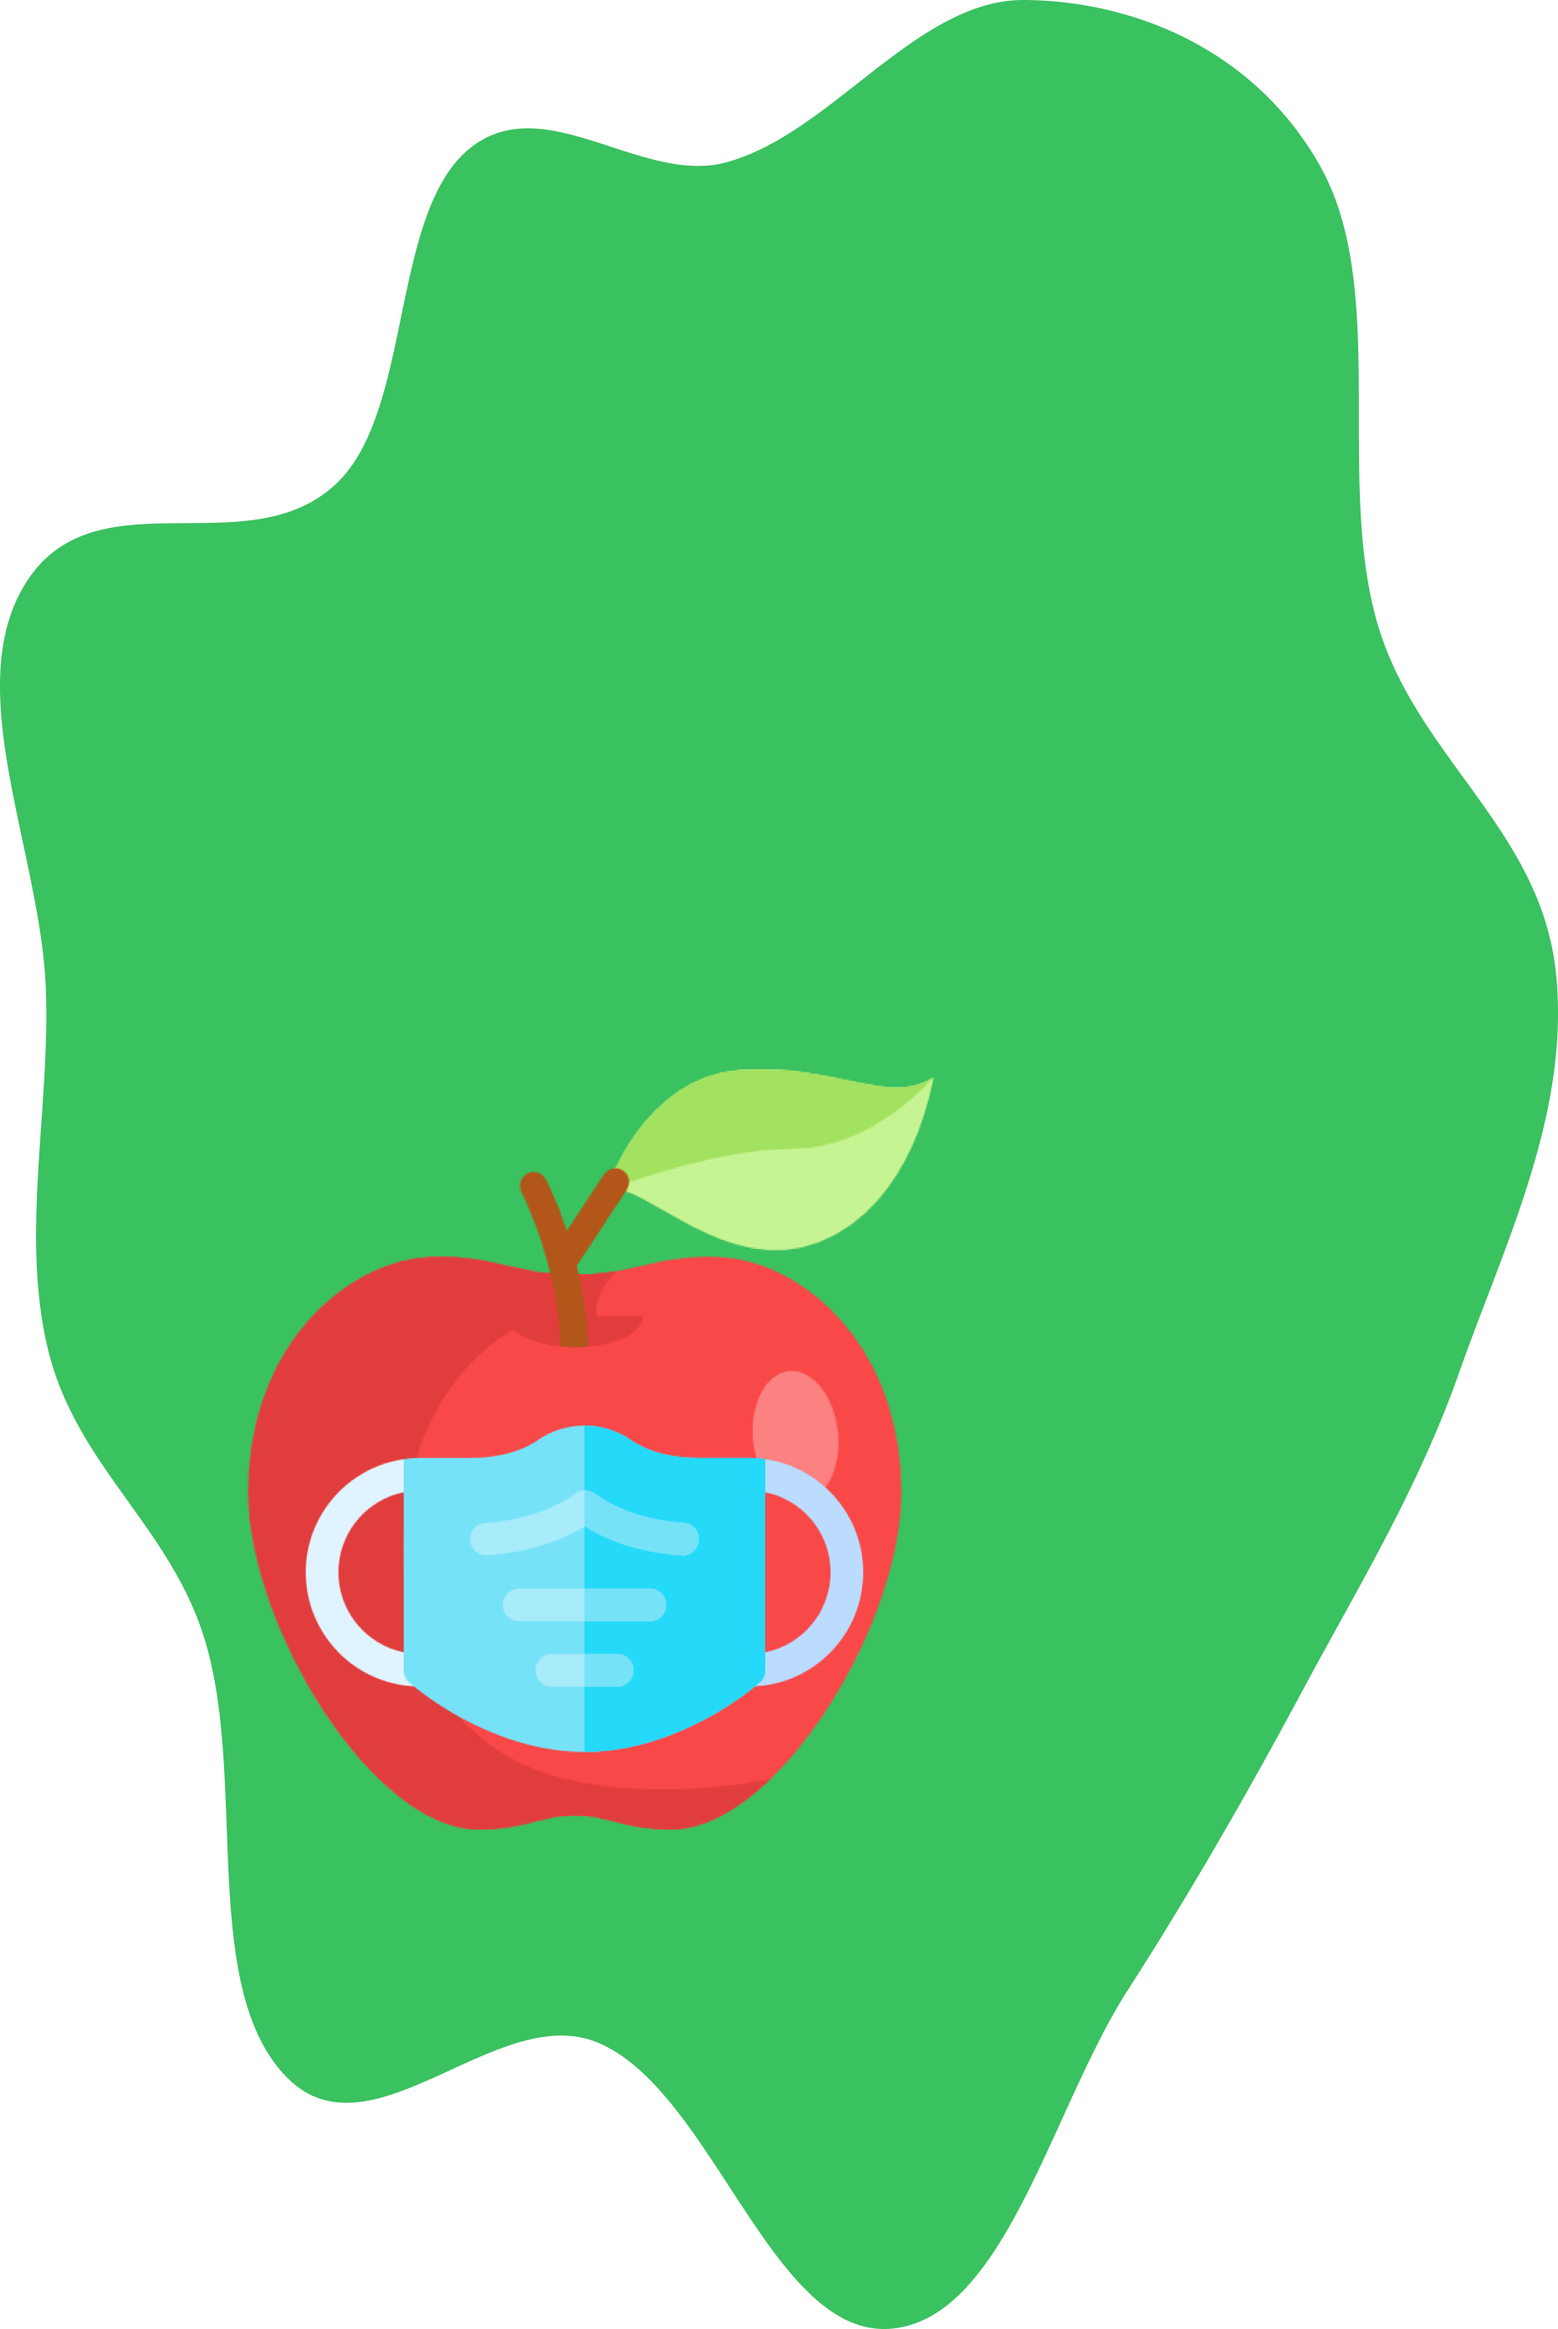
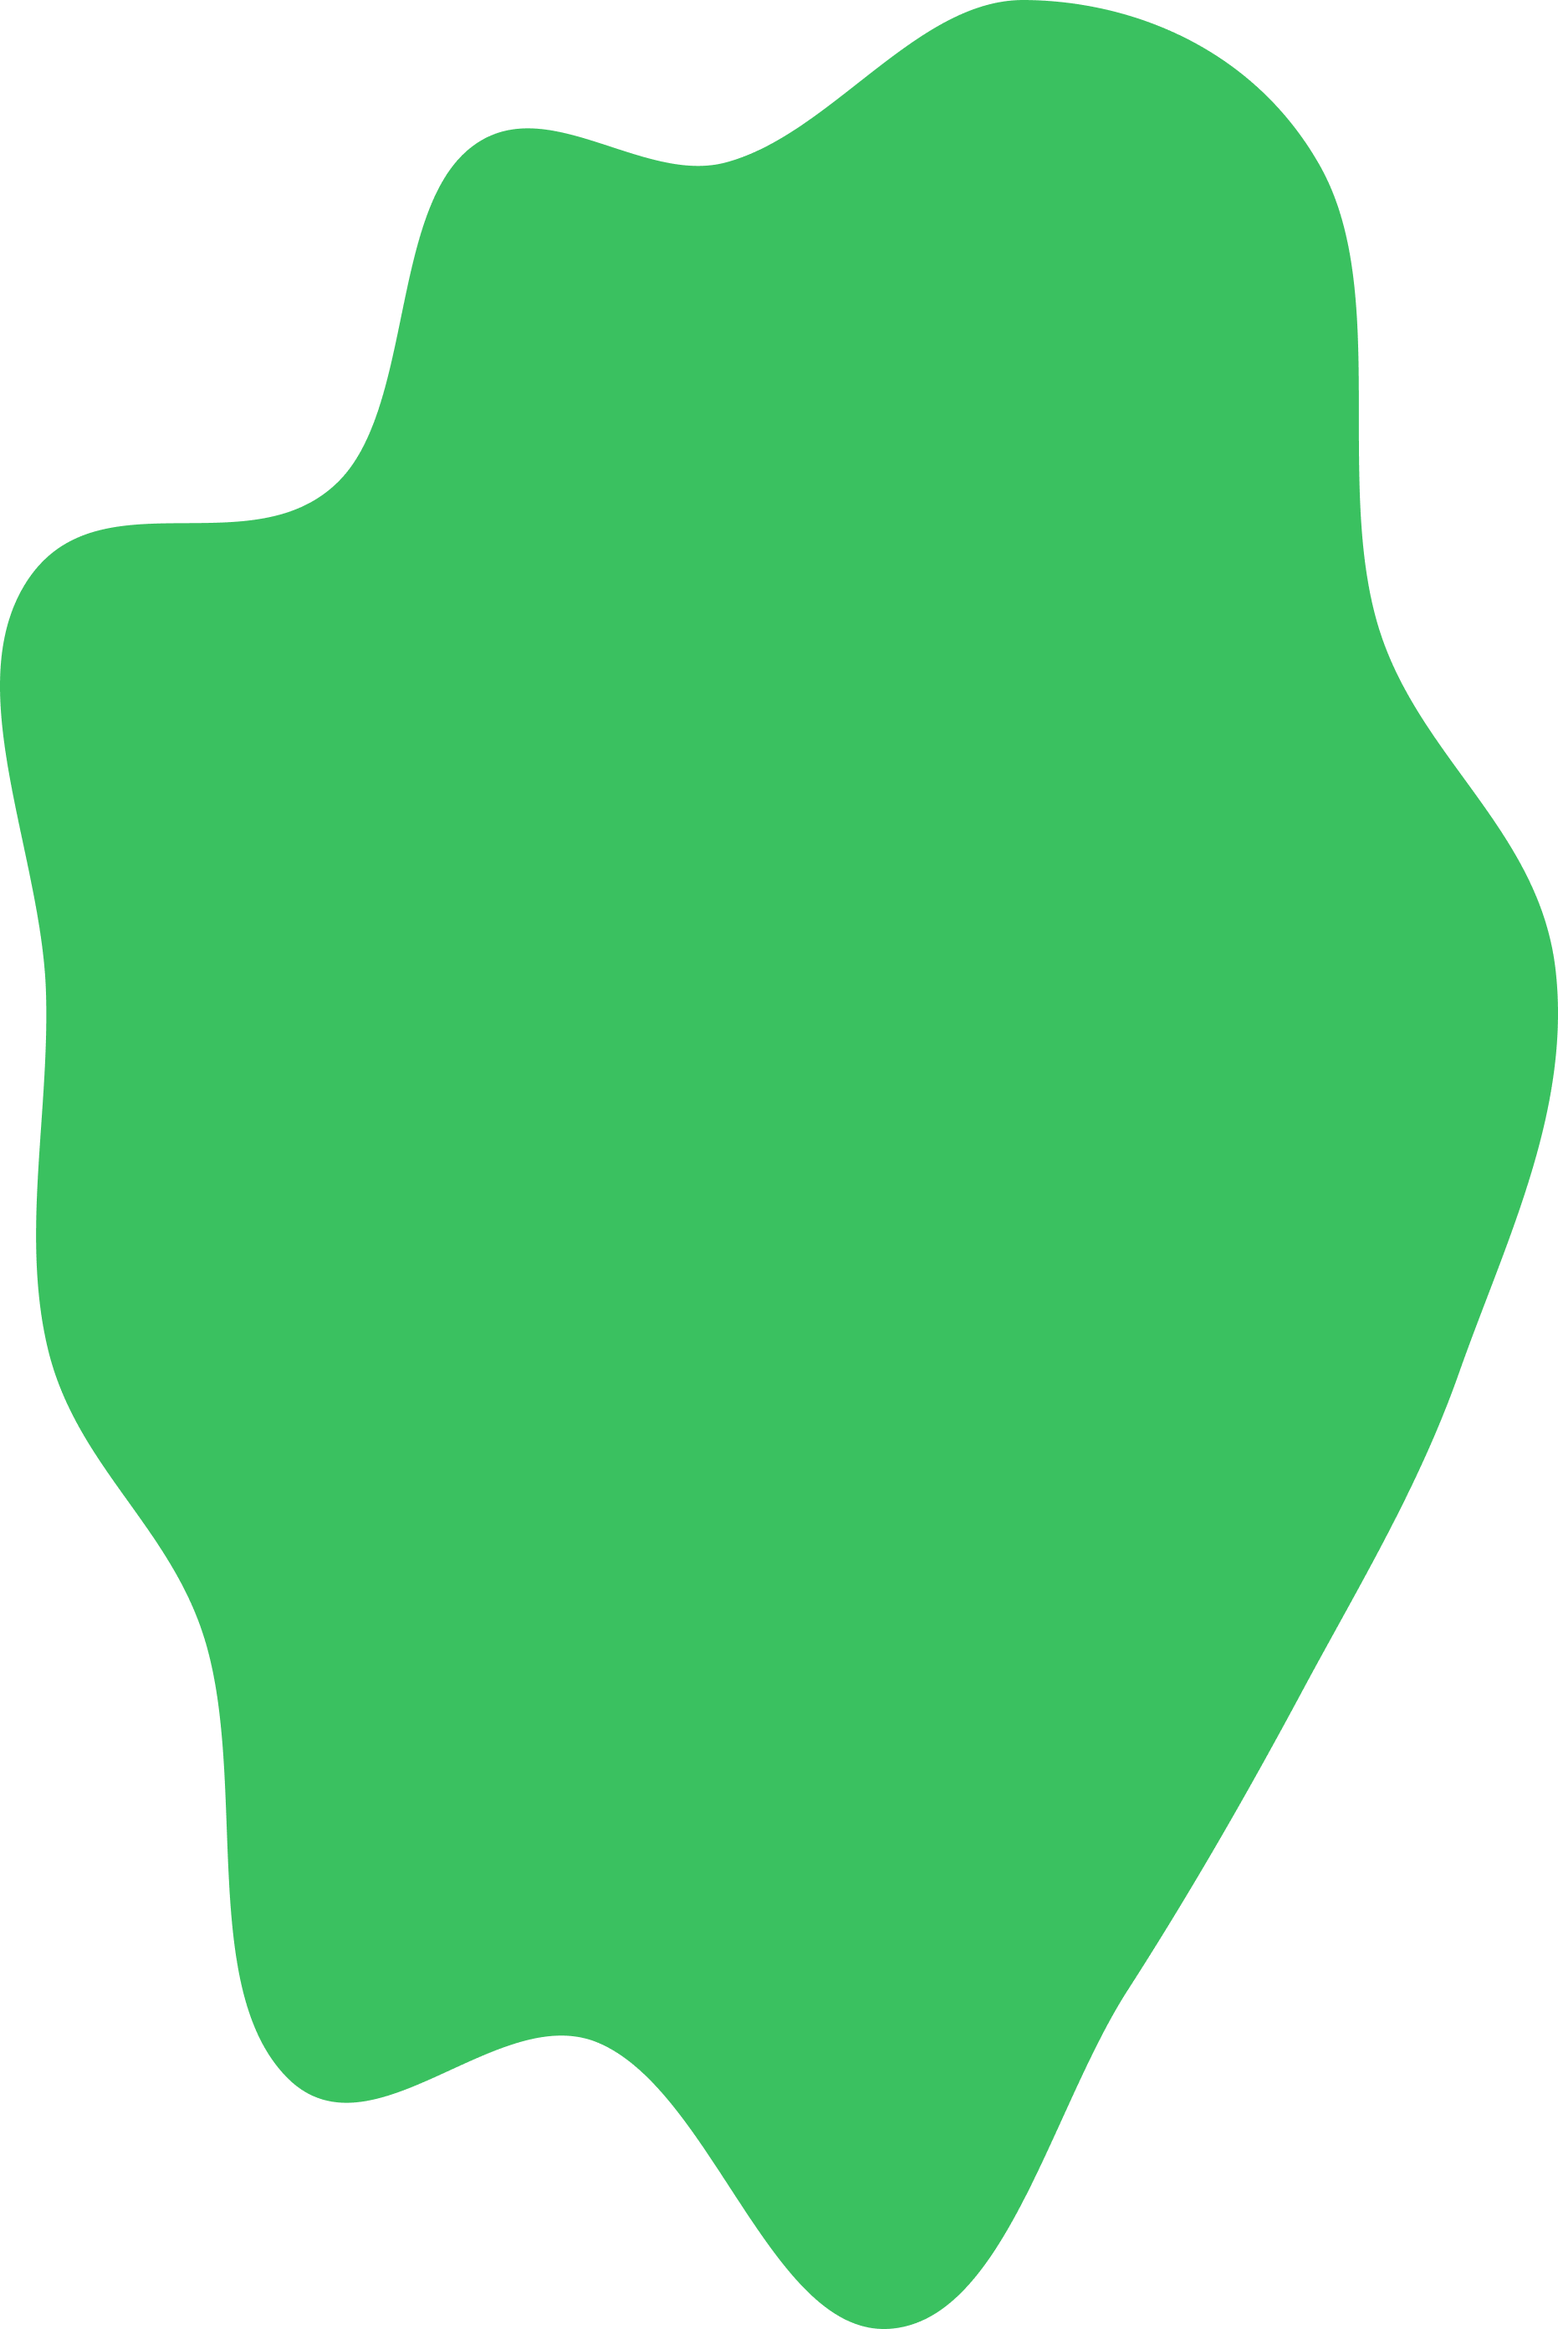
game done

Changed region(s): [[0.1557, 0.4375, 0.5915, 0.8125]]

diff --git a/src/screen/Win.js b/src/screen/Win.js
@@ -1,5 +1,5 @@
 import * as React from 'react';
-import {Image, Animated} from 'react-native';
+import {Image, Animated, Easing} from 'react-native';
 
 import {StyleSheet, View, Text, Dimensions} from 'react-native';
 import Header from '../components/Header';
@@ -9,12 +9,42 @@ const screenHeight = Math.round(Dimensions.get('window').height);
 const screenWidth = Math.round(Dimensions.get('window').width);
 
 class Win extends React.Component {
-  constructor(props){
-    super(props)
-  this.state = {
-    bounceValue: new Animated.Value(screenHeight),
-  };
+  constructor(props) {
+    super(props);
+    this.state = {
+      bounceValue: new Animated.Value(screenHeight),
+    };
+    this.animatedValue = new Animated.Value(0);
   }
+  handleAnimation = p => {
+    // A loop is needed for continuous animation
+    Animated.loop(
+      // Animation consists of a sequence of steps
+      Animated.sequence([
+        // start rotation in one direction (only half the time is needed)
+        Animated.timing(this.animatedValue, {
+          toValue: 1.0,
+          duration: p,
+          easing: Easing.linear,
+          useNativeDriver: true,
+        }),
+        // rotate in other direction, to minimum value (= twice the duration of above)
+        Animated.timing(this.animatedValue, {
+          toValue: -1.0,
+          duration: p,
+          easing: Easing.linear,
+          useNativeDriver: true,
+        }),
+        // return to begin position
+        Animated.timing(this.animatedValue, {
+          toValue: 0.0,
+          duration: p,
+          easing: Easing.linear,
+          useNativeDriver: true,
+        }),
+      ]),
+    ).start();
+  };
 
   _toggleSubview() {
     var toValue = -screenHeight / 4;
@@ -31,11 +61,10 @@ class Win extends React.Component {
 
   componentDidMount() {
     this._toggleSubview();
+    this.handleAnimation(200);
   }
 
   render() {
-    console.log(this.props)
-    console.log(this.state)
     return (
       <View style={styles.container}>
         <Animated.Image
@@ -45,14 +74,68 @@ class Win extends React.Component {
           ]}
           source={require('../../assets/images/win.png')}
         />
-        <Text style={styles.text}>RIP</Text>
+        <Text style={styles.text}>SURVIVED</Text>
 
         <View style={styles.content}>
-          <Image
-            style={styles.gif}
-            source={require('../../assets/images/run.gif')}
-          />
-        </View>
+            <View style={{flex: 1, marginLeft: 20, position: 'absolute', zIndex:2, bottom: 20}}>
+              <Animated.Image
+                style={[
+                  styles.imageLarge,
+                  {
+                    marginLeft: 40,
+                    top: -40,
+
+                    transform: [
+                      {
+                        rotate: this.animatedValue.interpolate({
+                          inputRange: [-1, 1],
+                          outputRange: ['-0.1rad', '0.1rad'],
+                        }),
+                      },
+                    ],
+                  },
+                ]}
+                source={require('../../assets/images/appleBig.png')}
+              />
+              <Animated.Image
+                style={[
+                  styles.image,
+                  {
+                    left: 20,
+                    top: -20,
+                    transform: [
+                      {
+                        rotate: this.animatedValue.interpolate({
+                          inputRange: [-1, 1],
+                          outputRange: ['-0.1rad', '0.1rad'],
+                        }),
+                      },
+                    ],
+                  },
+                ]}
+                source={require('../../assets/images/apple.png')}
+              />
+
+              <Animated.Image
+                style={[
+                  styles.image,
+                  {
+                    height: 20,
+                    width: 20,
+                    transform: [
+                      {
+                        rotate: this.animatedValue.interpolate({
+                          inputRange: [-1, 1],
+                          outputRange: ['-0.1rad', '0.1rad'],
+                        }),
+                      },
+                    ],
+                  },
+                ]}
+                source={require('../../assets/images/apple.png')}
+              />
+            </View>
+          </View>
       </View>
     );
   }
@@ -108,10 +191,16 @@ const styles = StyleSheet.create({
     justifyContent: 'center',
     alignItems: 'center',
   },
-  gif: {
+  image: {
     resizeMode: 'stretch',
-    width: '100%',
-    height: '88%',
+    width: 40,
+    height: 40,
+    zIndex: -1,
+  },
+  imageLarge: {
+    resizeMode: 'stretch',
+    width: screenWidth/2,
+    height: screenWidth/2,
     zIndex: -1,
   },
   bgPicture: {
@@ -119,13 +208,13 @@ const styles = StyleSheet.create({
     alignSelf: 'center',
     width: screenWidth * 1.5,
     height: screenHeight * 1.1,
-    zIndex: 2,
+    zIndex: -1,
     position: 'absolute',
   },
   text: {
     fontSize: 50,
     zIndex: 10,
-    marginTop: 60,
+    marginTop: screenHeight/4,
     color: 'black',
     fontFamily: 'Lato-Bold',
   },
